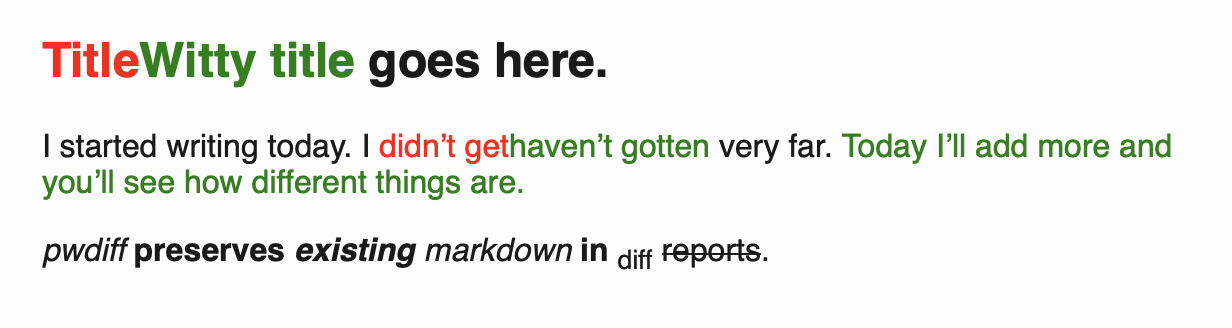
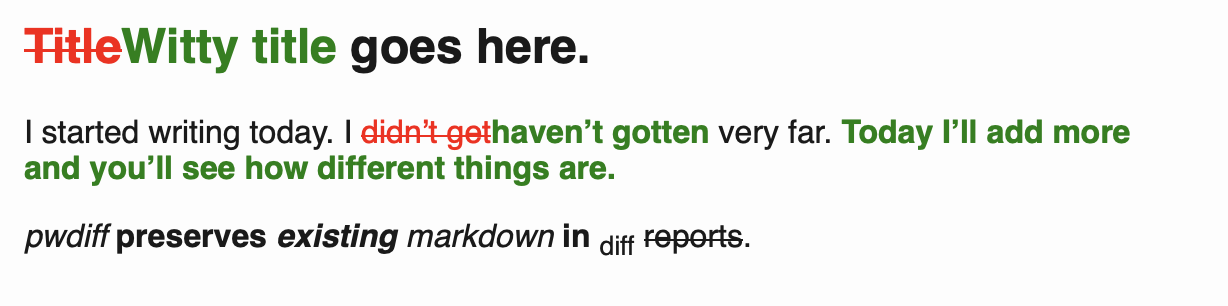
Fix missing strikethrough and bold for removed/added

Changed region(s): [[0.0, 0.3824, 0.9593, 0.6176], [0.0, 0.0882, 0.4951, 0.2647], [0.0, 0.7059, 0.6189, 0.8529]]

diff --git a/example/out.html b/example/out.html
@@ -175,10 +175,12 @@
 
   	.pwdiff-added {
   		color: green;
+  		font-weight: bold;
   	}
 
   	.pwdiff-removed {
   		color: red;
+  		text-decoration: line-through;
   	}
   </style>
   <!--[if lt IE 9]>

diff --git a/changes.css.html b/changes.css.html
@@ -6,9 +6,11 @@
 
 	.pwdiff-added {
 		color: green;
+		font-weight: bold;
 	}
 
 	.pwdiff-removed {
 		color: red;
+		text-decoration: line-through;
 	}
 </style>
